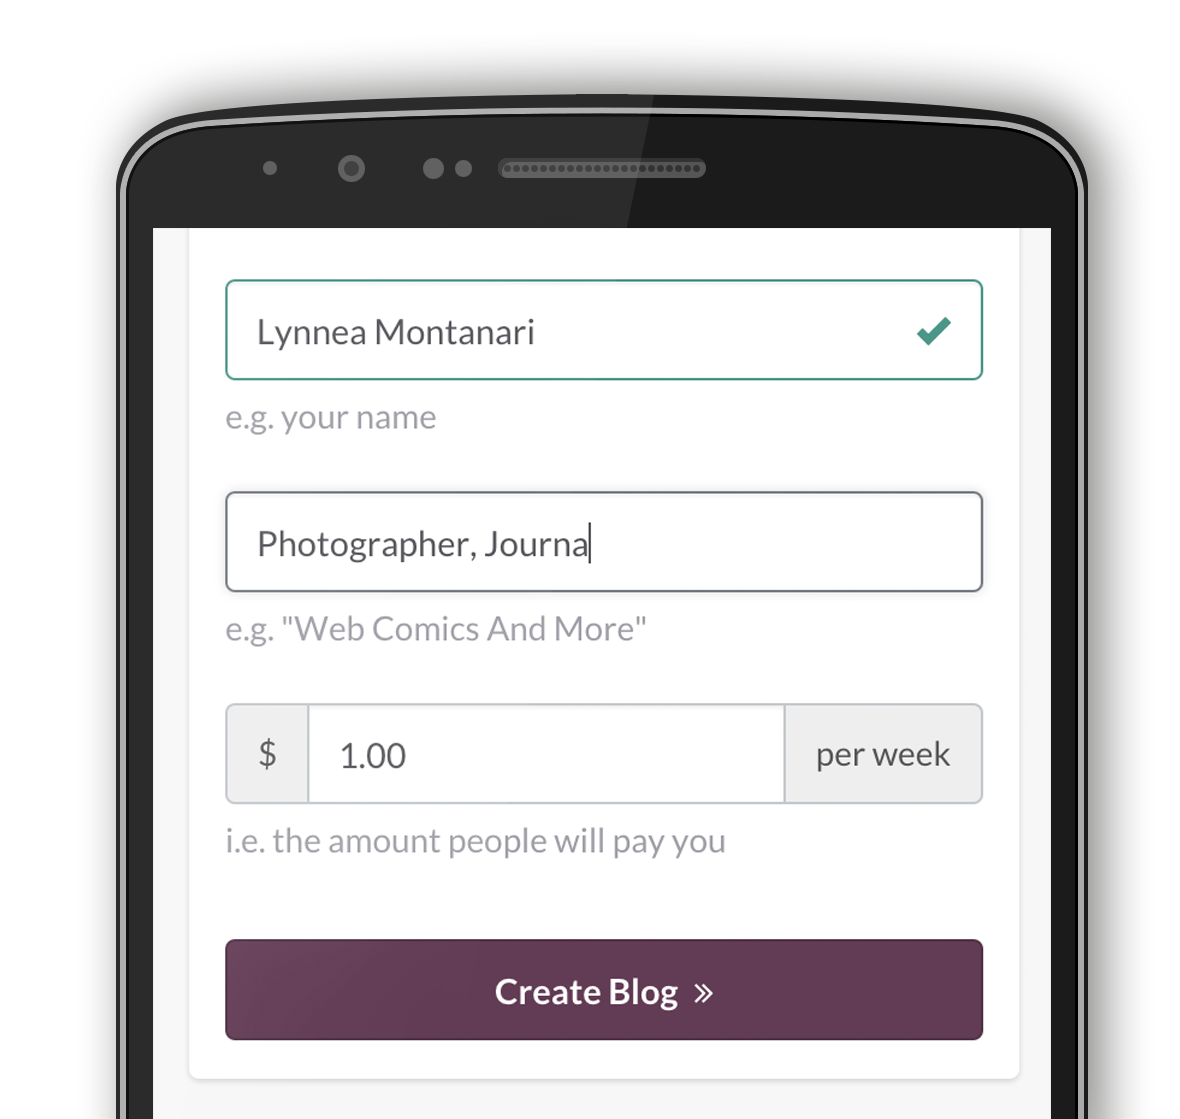
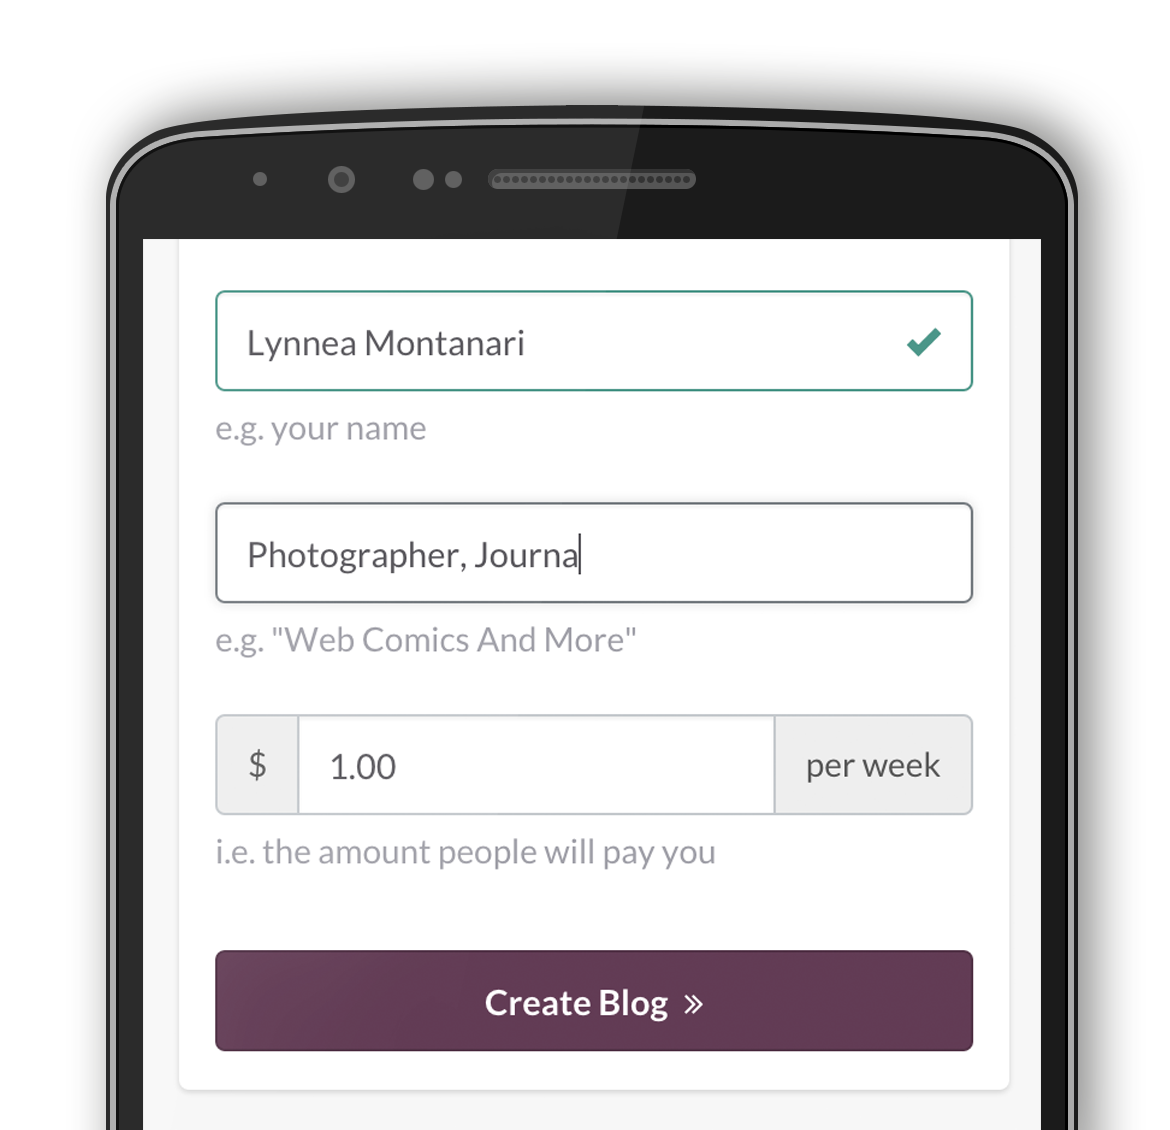
Update "Geting Started" copy

diff --git a/app/modules/information/pages/getting-started.html b/app/modules/information/pages/getting-started.html
@@ -1,23 +1,13 @@
 <div class="info-page-navbar" ng-include="'modules/information/header.html'"></div>
 
 <div class="info-page-boxes">
-  <div class="info-page-box info-page-box-dark-3">
-    <div class="container">
-      <div class="row">
-        <div class="col-xs-12 info-page-box-extra-padding">
-          <h1 class="light">
-            Let's get started...
-          </h1>
-          <h2 class="sub-heading-long">Fifthweek is a blogging platform for your greatest creations.</h2>
-        </div>
-      </div>
-    </div>
-  </div>
-  <div class="info-page-box no-bottom-padding">
+
+  <div class="info-page-box no-bottom-padding info-page-box-dark-3">
     <div class="container">
       <div class="row">
         <div class="col-xs-12">
-          <h2><span class="heading-number">1.</span> Create your blog</h2>
+          <h1 class="combined-with-section large">Let's get you started</h1>
+          <h2><span class="heading-number heading-number-in-margin">1.</span> Create your blog</h2>
           <p>
             First, create your blog on Fifthweek. We keep all blogs under one roof so
             we can provide cool features like one-click payments and discoverability.

diff --git a/app/styles/view-specific/information/_all.scss b/app/styles/view-specific/information/_all.scss
@@ -350,6 +350,9 @@ $html-name-space:'.info-page';
       &.hug-subheading {
         margin-bottom: 0;
       }
+      &.combined-with-section {
+        margin-bottom: 24px;
+      }
     }
     p, h2, ol {
       max-width: 640px;
@@ -366,6 +369,9 @@ $html-name-space:'.info-page';
       font-size: 28px;
       .heading-number {
         margin-right: 10px;
+      }
+      .heading-number-in-margin {
+        margin-left: -10px;
       }
 
       &:last-child {

diff --git a/app/modules/creator-blog/create-blog.html b/app/modules/creator-blog/create-blog.html
@@ -18,7 +18,7 @@
         data-loading-text="Saving..."
         data-event-title="Blog created"
         data-event-category="Registration"
-        fw-form-submit="continue()">Create Blog <i class="fa fa-angle-double-right"></i></button>
+        fw-form-submit="continue()">Create Blog <i class="fa fa-angle-double-right" style="margin-left: 4px"></i></button>
     </div>
 
     <div class="row">
